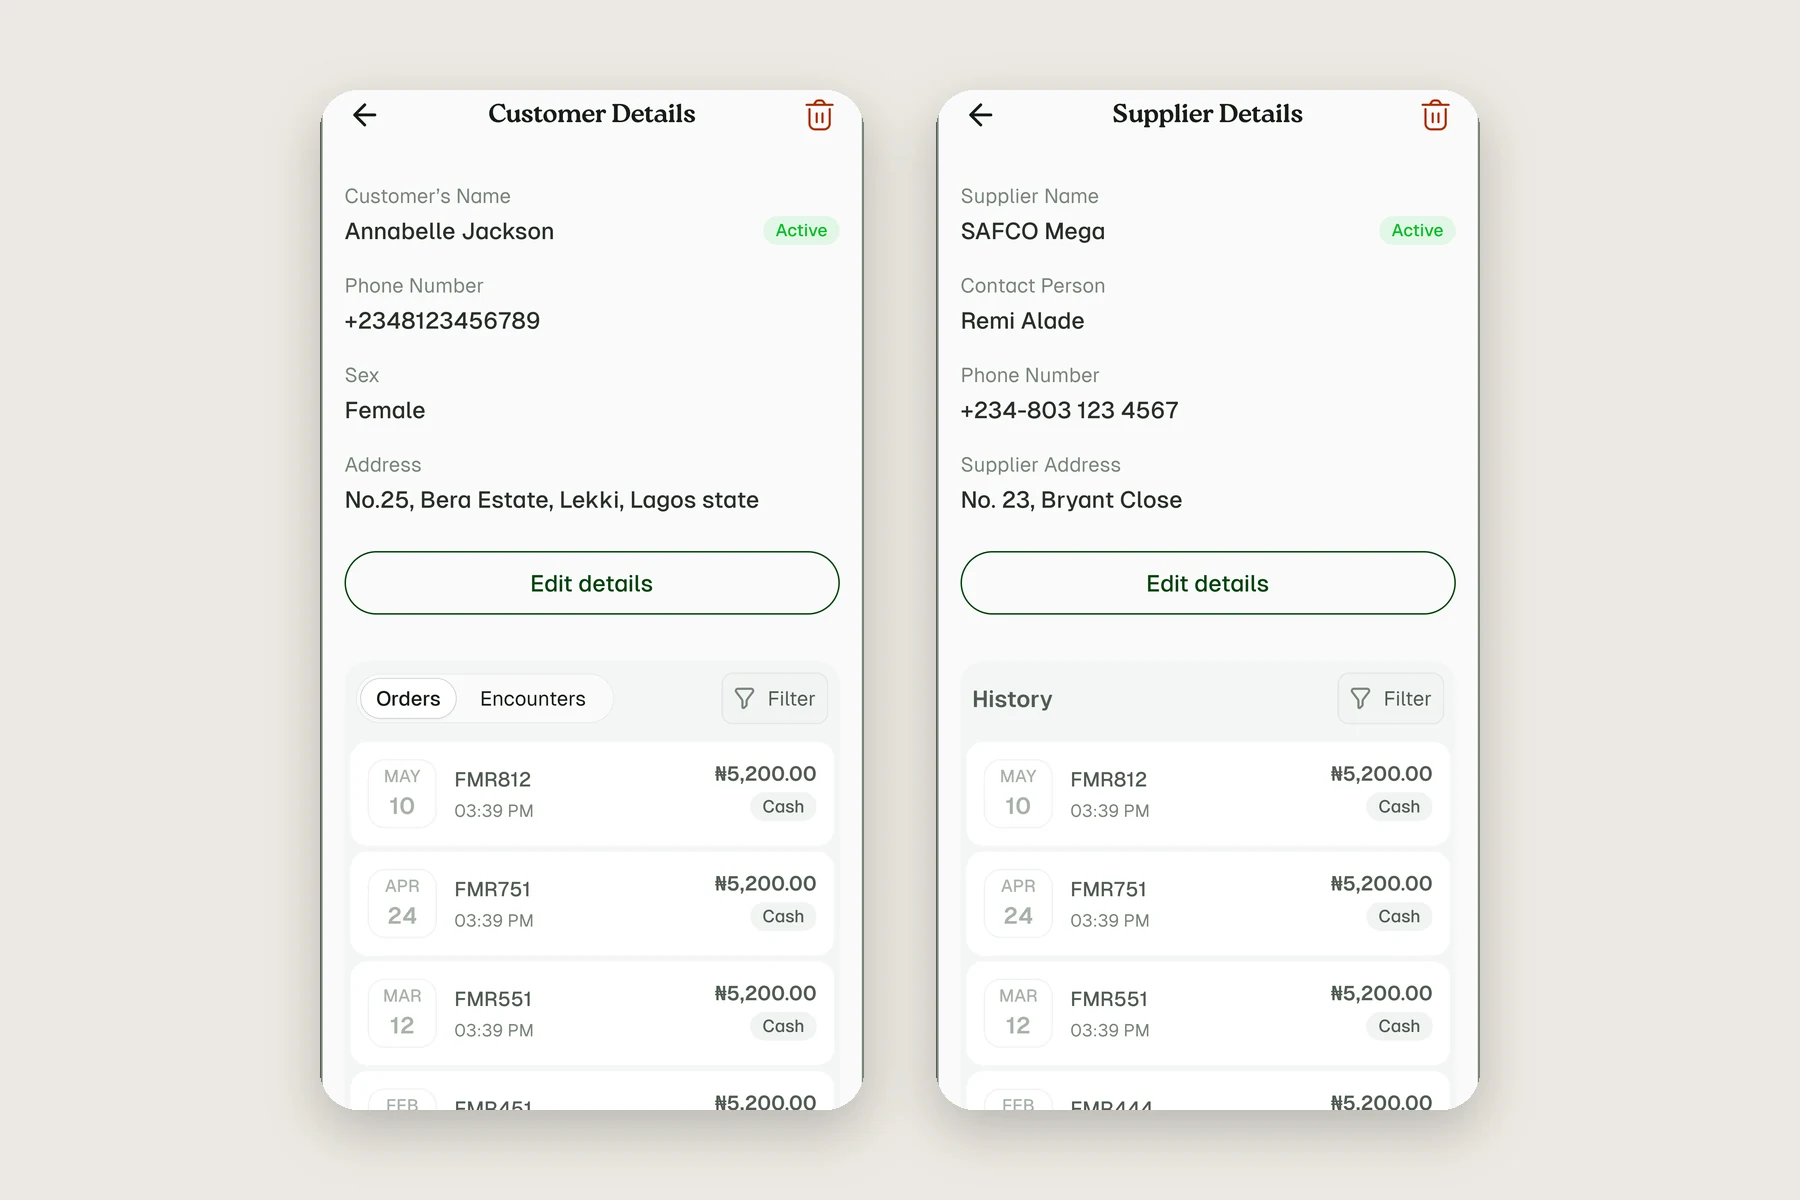
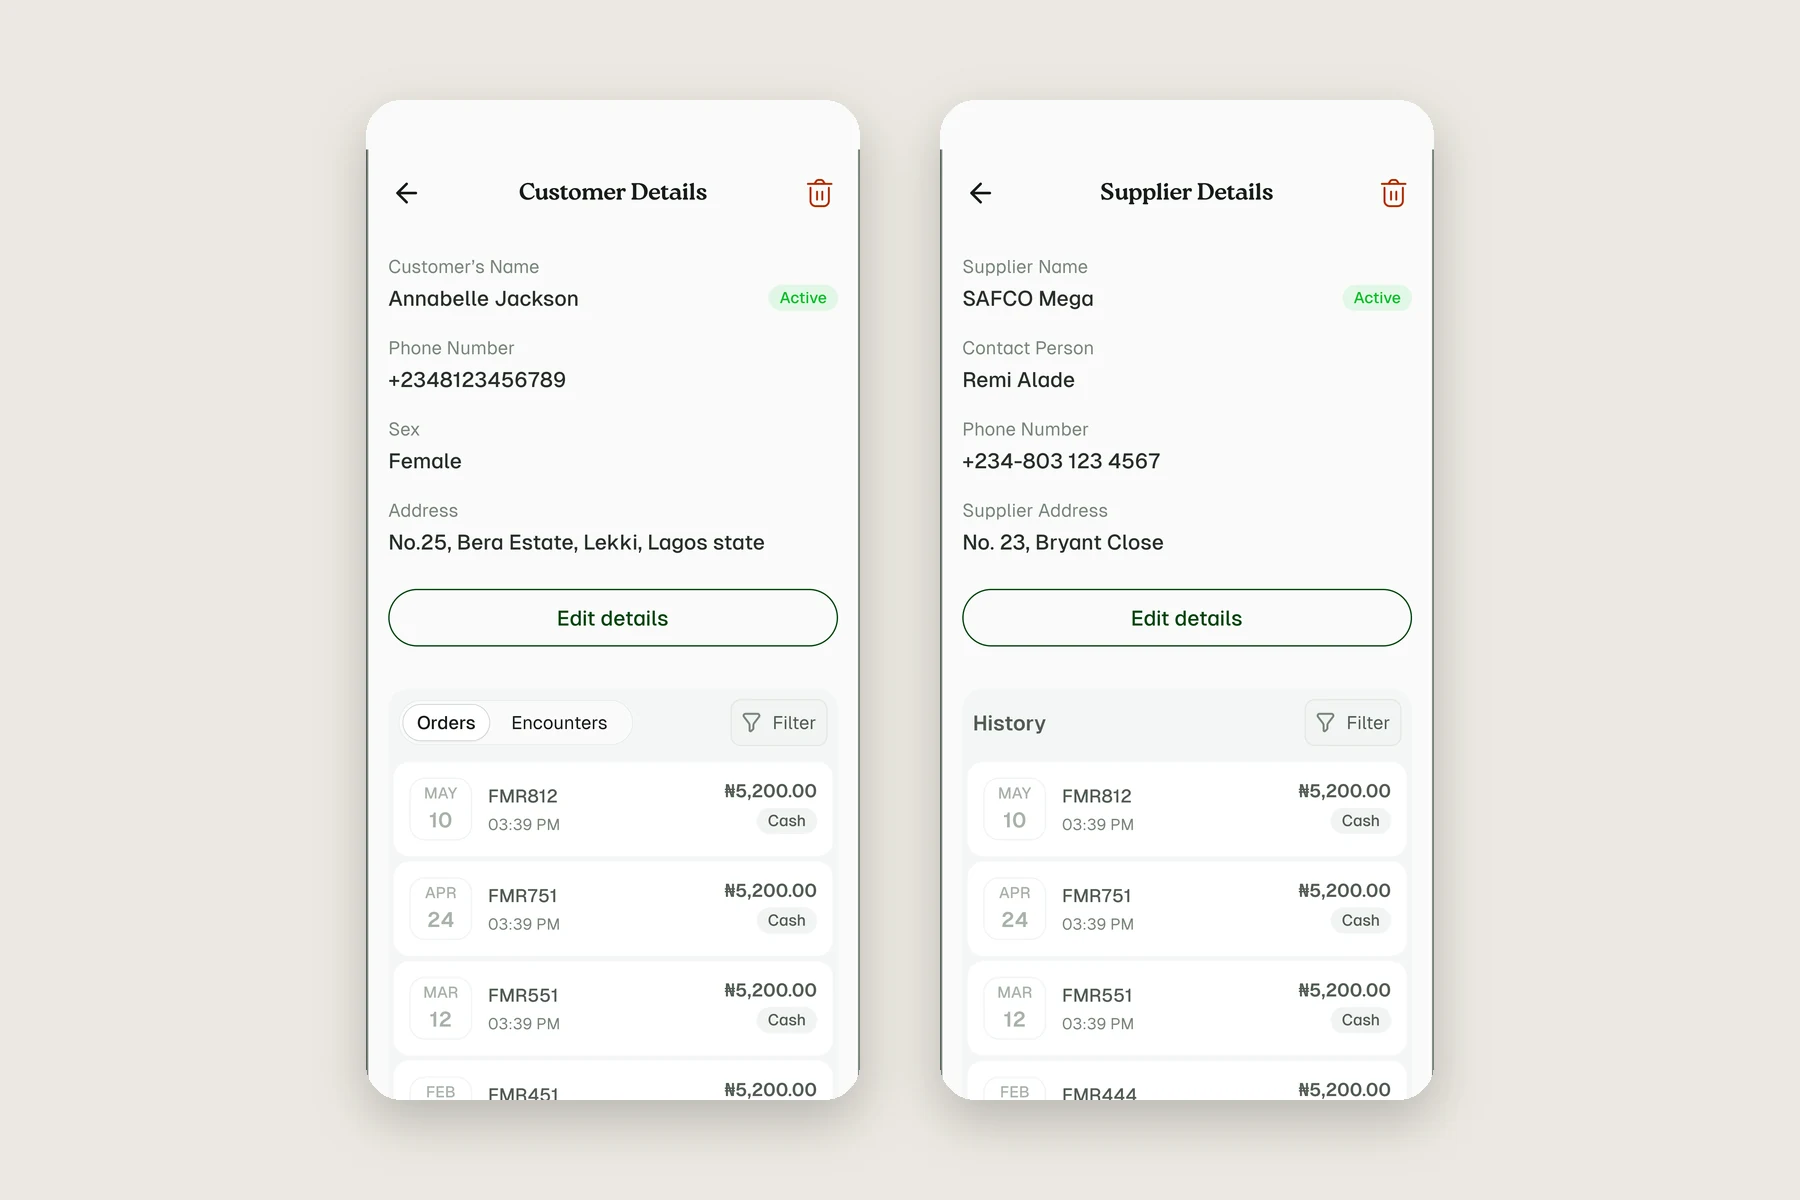
feat: replace the compre store graphics with real dashboard and app screens
feat: add the compre web orders page as the hero and the dashboard overview beside it, both whole on the plate

feat: add the compre app's order details and payment screens with bank details and phone number masked

delete: remove the old compre store graphics

fix: rebuild the dispensary hero from three whole phone screens instead of the device graphic that ran off its edges

fix: keep the full header on every dispensary phone screen instead of cropping into it

delete: remove the dispensary home and request pair now that the hero shows both screens

feat: add a pointScale option to the particle figure and draw the home particles smaller

chore: note the compre sources and particle size option in claude.md

diff --git a/src/data/projectdata.ts b/src/data/projectdata.ts
@@ -1,10 +1,8 @@
-import CompreFour from "../assets/compre-four.webp";
-import CompreOne from "../assets/compre-one.webp";
-import CompreThree from "../assets/compre-three.webp";
-import CompreTwo from "../assets/compre-two.webp";
+import CompreDashboard from "../assets/compre-dashboard.webp";
+import CompreOrderPayment from "../assets/compre-order-payment.webp";
+import CompreOrders from "../assets/compre-orders.webp";
 import DispensaryCustomersSuppliers from "../assets/dispensary-customers-suppliers.webp";
 import DispensaryDevices from "../assets/dispensary-devices.webp";
-import DispensaryHomeRequest from "../assets/dispensary-home-request.webp";
 import DispensaryInventoryBranches from "../assets/dispensary-inventory-branches.webp";
 import DispensaryNewOrder from "../assets/dispensary-new-order.mp4";
 import FamasiHomePlans from "../assets/famasi-home-plans.webp";
@@ -135,35 +133,33 @@ export const data: Project[] = [
     assets: [
       {
         type: "image",
-        url: CompreOne,
-        width: 1024,
-        height: 500,
-        alt: "Compre mobile app ordering screens",
-        caption: "Pharmacies browse distributors and order straight from their catalogues.",
+        url: CompreOrders,
+        width: 2400,
+        height: 1350,
+        bare: true,
+        alt: "Compre supplier dashboard orders page",
+        caption:
+          "The supplier dashboard's orders page: incoming pharmacy orders with their items, source, totals and status, split by delivery and pick-up.",
       },
       {
         type: "image",
-        url: CompreTwo,
-        width: 1024,
-        height: 500,
-        alt: "Compre mobile app distributor list",
-        caption: "The distributor list, with search and a direct line to each one.",
+        url: CompreDashboard,
+        width: 1800,
+        height: 1200,
+        bare: true,
+        alt: "Compre supplier dashboard overview",
+        caption:
+          "The distributor's overview: what needs attention today, then income, orders, customers and items sold against the last period.",
       },
       {
         type: "image",
-        url: CompreThree,
-        width: 1024,
-        height: 500,
-        alt: "Compre mobile app order tracking",
-        caption: "Following an order after it has been placed.",
-      },
-      {
-        type: "image",
-        url: CompreFour,
-        width: 1024,
-        height: 500,
-        alt: "Compre mobile app business overview",
-        caption: "A business overview for the pharmacy.",
+        url: CompreOrderPayment,
+        width: 1800,
+        height: 1200,
+        bare: true,
+        alt: "Compre mobile app order details and payment screens",
+        caption:
+          "A pharmacy's order in the mobile app, and paying for it by bank transfer, with a countdown and the option to ask for more time.",
       },
     ],
     live: "https://distributor.getcompre.com",
@@ -279,17 +275,8 @@ export const data: Project[] = [
         width: 2400,
         height: 1350,
         bare: true,
-        alt: "Dispensary on desktop, tablet and phone: the web dashboard, a new order on the tablet, and the mobile home screen",
-        caption: "The same app on the web, a tablet and a phone. I brought the existing mobile app to the browser with Expo for Web.",
-      },
-      {
-        type: "image",
-        url: DispensaryHomeRequest,
-        width: 1800,
-        height: 1200,
-        bare: true,
-        alt: "Dispensary home screen with sales analytics, next to an incoming medication request to accept or decline",
-        caption: "Home shows sales and top sellers. An online request comes in with its delivery address and items, to accept or decline.",
+        alt: "Dispensary home screen with sales analytics, an incoming medication request to accept or decline, and an order review with payment methods",
+        caption: "Home shows sales and top sellers. An online request comes in with its delivery address and items, to accept or decline. A sale is reviewed with its totals before payment.",
       },
       {
         type: "image",

diff --git a/src/components/Effects/ParticleFigure.tsx b/src/components/Effects/ParticleFigure.tsx
@@ -20,6 +20,8 @@ interface ParticleFigureProps {
   resolve?: boolean;
   /** Most particles to draw on phones. */
   maxPointsSmall?: number;
+  /** Particle size as a multiple of the gap between them. Above 1 they overlap into a solid image. */
+  pointScale?: number;
   onReady?: () => void;
   /** Called once, when the intro has settled. */
   onSettled?: () => void;
@@ -230,6 +232,7 @@ const ParticleFigure: React.FC<ParticleFigureProps> = ({
   idle = true,
   resolve = false,
   maxPointsSmall = 6000,
+  pointScale = 1.35,
   onReady,
   onSettled,
   onError,
@@ -326,7 +329,7 @@ const ParticleFigure: React.FC<ParticleFigureProps> = ({
         uniforms: {
           uPixelRatio: { value: dpr },
           uDistance: { value: distance },
-          uPointSize: { value: Math.max(2, spacing * 1.35) },
+          uPointSize: { value: Math.max(1.5, spacing * pointScale) },
           uTime: { value: 0 },
           uIdle: { value: idle ? 1 : 0 },
           uFade: { value: 0 },

diff --git a/src/components/Homepage/Home.tsx b/src/components/Homepage/Home.tsx
@@ -194,6 +194,7 @@ const Home = () => {
                   mono
                   bleed={isPhone ? 0.08 : 0.35}
                   maxPointsSmall={13000}
+                  pointScale={1}
                   onReady={() => setParticlesReady(true)}
                   onError={() => setParticlesFailed(true)}
                 />

diff --git a/CLAUDE.md b/CLAUDE.md
@@ -54,7 +54,7 @@ Without them the site still runs, but submitting the form shows the error state.
 - Images are imported from `src/assets/*.webp` so webpack bundles them.
 - `role` and `platforms` are short labels shown in the list and the case-study facts.
 - `/work` renders `WorkIndex`: a list of real links, one row per project. On hover devices wider than 992px, hovering a row shows that project's first screenshot in `Effects/HoverPreview` following the cursor. On smaller screens each row shows that screenshot as a thumbnail instead. `/work/:projectId` renders `ProjectCaseStudy`: a single scrolling page with the facts, the first asset as a hero, sections from `description`/`constraints`/`contribution`/`decisions`, the other assets two per row (an odd last one spans the full width), every `technicalHighlights` item, and a "Next project" link. An unknown ID redirects to `/work`.
-- Every case-study image sits on the same cream plate (`#ECE9E2`, fixed 16:9 or 3:2) and is scaled to fit inside it at its own ratio (a CSS container query), with a soft shadow. That keeps projects with very different artwork looking like one set. Each asset's optional `caption` says what the screen does and is shown with a figure number; it falls back to `alt`. An asset marked `bare` is a composite of several phone screens with the plate colour and shadows already in the image, so it fills the plate with no frame or padding (Famasi's, Dispensary's and Octodoc's app images are built this way, from screens on famasi.me, famasi.me/dispensary, the Wrapped recording and the user's own Octodoc screenshots; Octodoc's web images are captures of octodoc.com, including its plan comparison). A `video` asset plays muted on a loop.
+- Every case-study image sits on the same cream plate (`#ECE9E2`, fixed 16:9 or 3:2) and is scaled to fit inside it at its own ratio (a CSS container query), with a soft shadow. That keeps projects with very different artwork looking like one set. Each asset's optional `caption` says what the screen does and is shown with a figure number; it falls back to `alt`. An asset marked `bare` is a composite of several phone screens with the plate colour and shadows already in the image, so it fills the plate with no frame or padding (Famasi's, Dispensary's, Octodoc's and Compre's app images are built this way, from screens on famasi.me, famasi.me/dispensary, the Wrapped recording and the user's own Octodoc and Compre screenshots; Compre's web images are cropped captures of its supplier dashboard, and its phone screens have the bank details and phone number masked; Octodoc's web images are captures of octodoc.com, including its plan comparison). A `video` asset plays muted on a loop.
 - The Work list's hover preview shows each screenshot in warm greys first, then colour spreads out from the centre.
 - `live`, `appStoreUrl`, and `playStoreUrl` are optional and render links only when set.
 - Clicking a screenshot opens `ImageModal`, a portal dialog with focus handling.
@@ -73,7 +73,7 @@ Without them the site still runs, but submitting the form shows the error state.
 
 **WebGL effects** (`components/Effects/`, built on `three`):
 
-- `ParticleFigure`: the Home image (`src/assets/talade-floating.webp`, an 800×881 cut-out photo with transparency) rebuilt as particles. They settle into place as the image crossfades out, part around the cursor and burst on click or tap. A dragged finger leaves a trail that parts them, and they drift back as it fades. Idle motion runs in the vertex shader: a per-particle shimmer, a slow "current" that sways broad patches together, and a few motes that drift up and fade. On a `mono` figure, single particles glint in the photo's real colour, and every few seconds a patch "blooms" into colour from a random point with a ragged edge, then drains back to grey (up to three at once, `uBlooms`). The user likes these and asked for more of them. The user found an earlier top-to-bottom ripple too much. `idle={false}` turns all idle motion off. Every particle is the same size; the user found mixed sizes looked like old film grain. The whole figure only floats up and down. Don't add rotation or tilt, which the user rejected. A cut-out is sampled by transparency only; an image without transparency falls back to skipping near-white pixels. Home passes `mono`, so the particles (and the `<img>` under them, via a CSS grayscale filter) are black and white. `gather` starts the particles scattered, `onSettled` fires once the intro has played (for an `idle={false}` figure, as soon as the particles reach their spots, so the hand-off never looks stuck), and `resolve` dissolves the particles one by one in random order. About uses all three with `idle={false}` (which also damps the gather so it doesn't overshoot), so the particles sit exactly on the photo as it fades in underneath. The user rejected both idle drift there and swelling the particles shut, which looked like a bounce. Big figures are sampled more finely (up to 280px wide). If the WebGL context is lost (iOS Safari does this after a few page changes) it calls `onError` and the page shows the plain image again. Home checks WebGL support once per visit and releases the test context.
+- `ParticleFigure`: the Home image (`src/assets/talade-floating.webp`, an 800×881 cut-out photo with transparency) rebuilt as particles. They settle into place as the image crossfades out, part around the cursor and burst on click or tap. A dragged finger leaves a trail that parts them, and they drift back as it fades. Idle motion runs in the vertex shader: a per-particle shimmer, a slow "current" that sways broad patches together, and a few motes that drift up and fade. On a `mono` figure, single particles glint in the photo's real colour, and every few seconds a patch "blooms" into colour from a random point with a ragged edge, then drains back to grey (up to three at once, `uBlooms`). The user likes these and asked for more of them. The user found an earlier top-to-bottom ripple too much. `idle={false}` turns all idle motion off. Every particle is the same size; the user found mixed sizes looked like old film grain. `pointScale` sets that size as a multiple of the gap between particles: the default 1.35 overlaps them (About needs that to blend into the photo), and Home passes 1 because the user found its particles too big. The whole figure only floats up and down. Don't add rotation or tilt, which the user rejected. A cut-out is sampled by transparency only; an image without transparency falls back to skipping near-white pixels. Home passes `mono`, so the particles (and the `<img>` under them, via a CSS grayscale filter) are black and white. `gather` starts the particles scattered, `onSettled` fires once the intro has played (for an `idle={false}` figure, as soon as the particles reach their spots, so the hand-off never looks stuck), and `resolve` dissolves the particles one by one in random order. About uses all three with `idle={false}` (which also damps the gather so it doesn't overshoot), so the particles sit exactly on the photo as it fades in underneath. The user rejected both idle drift there and swelling the particles shut, which looked like a bounce. Big figures are sampled more finely (up to 280px wide). If the WebGL context is lost (iOS Safari does this after a few page changes) it calls `onError` and the page shows the plain image again. Home checks WebGL support once per visit and releases the test context.
 - `HoverPreview`: the Work list's cursor-following screenshot. It bends with cursor speed and shows a slight colour split.
 - `DitherPortrait`: a hover effect on the About photo. The canvas is clear at rest, so the real photo shows; around the cursor it draws an ink-on-cream ordered dither. It only runs on devices with a mouse (`(hover: hover) and (pointer: fine)`), and only after the particle intro has finished. The user asked for this way round: photo at rest, dots on hover.
 - Each one is loaded with `React.lazy`, so `three` stays out of the main bundle. Each one sits over a plain image that remains the fallback. They are skipped under `prefers-reduced-motion` or when WebGL isn't available.
